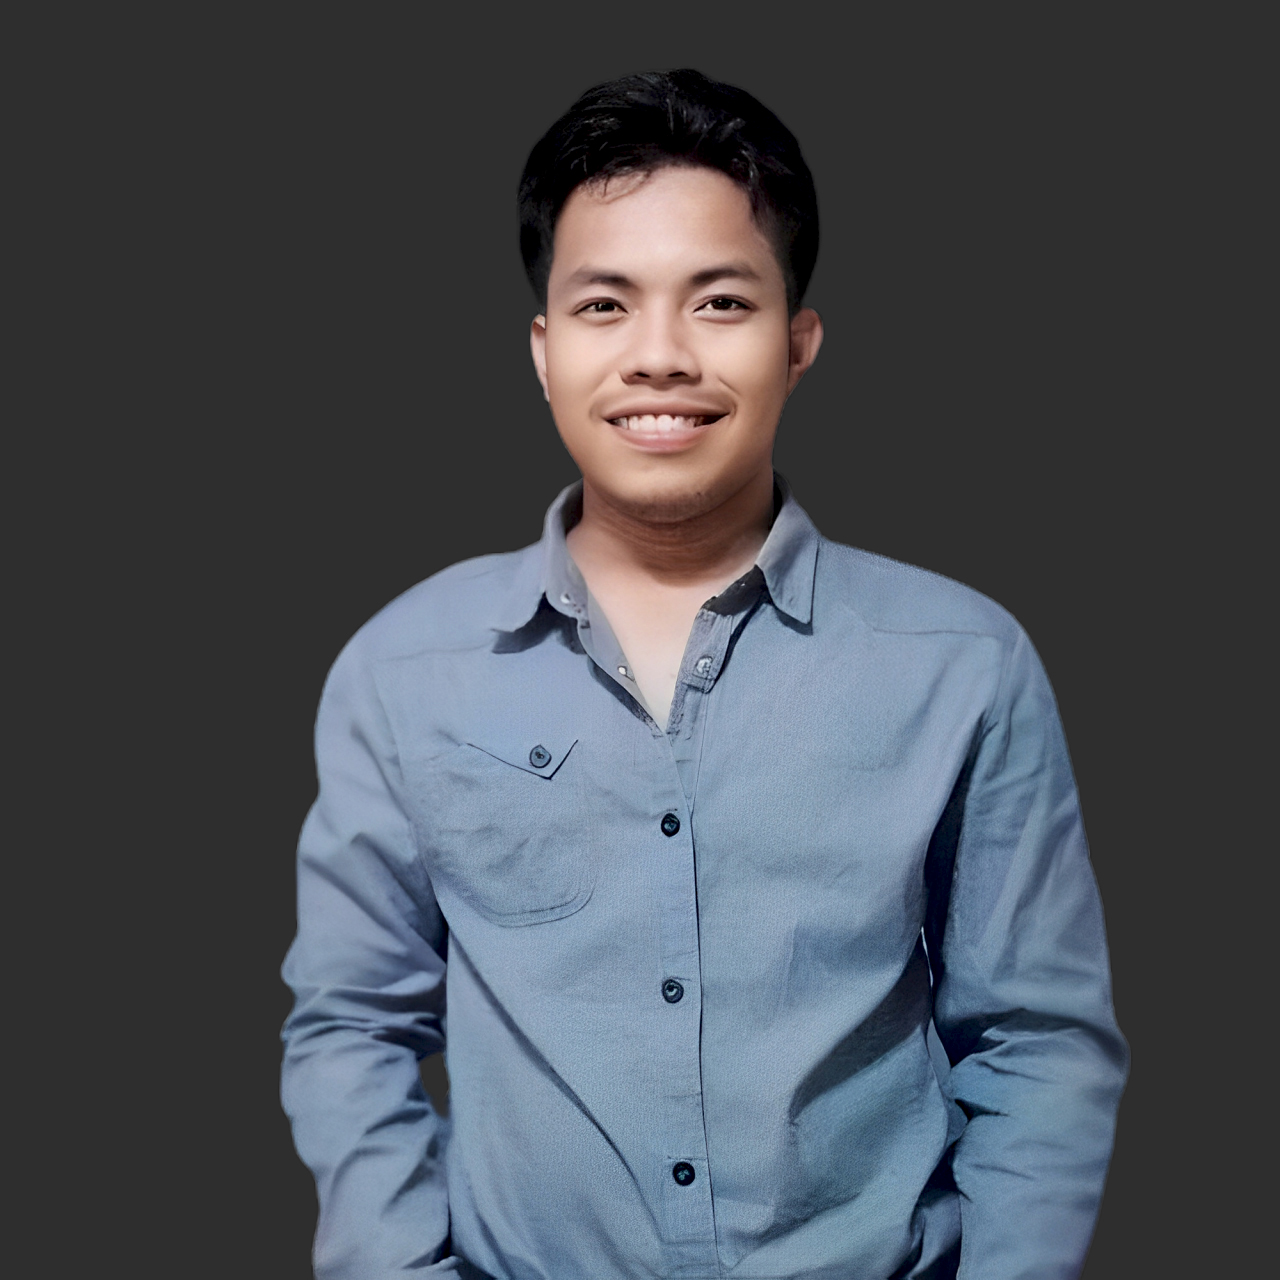
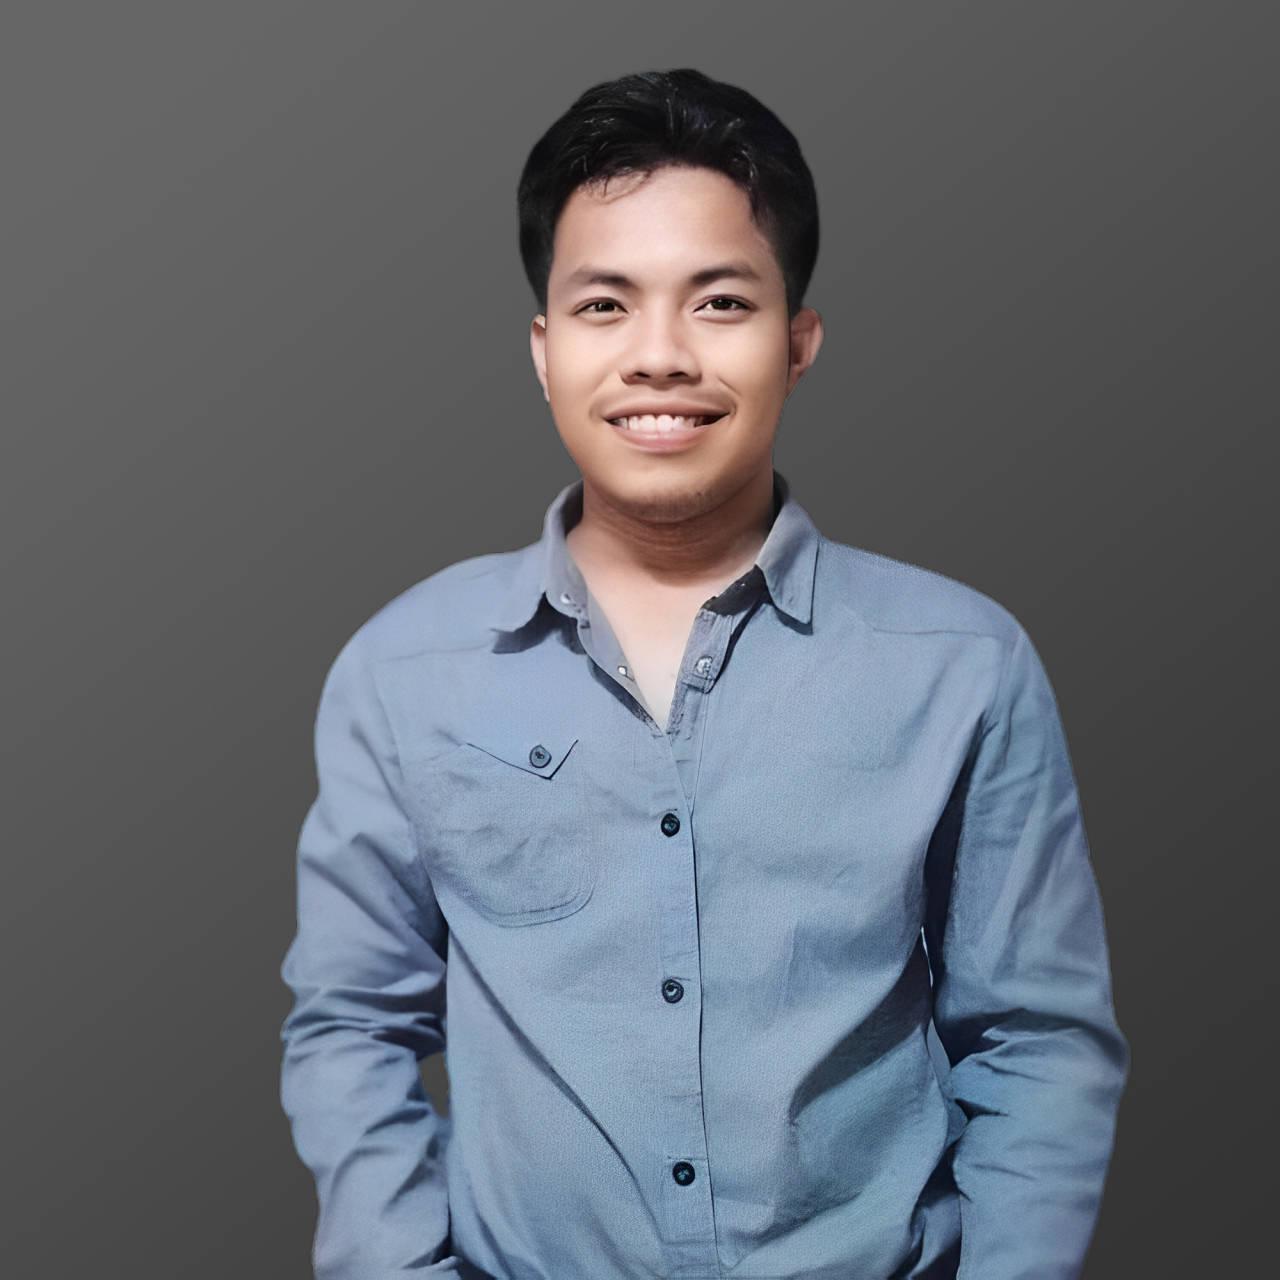
.

diff --git a/index.html b/index.html
@@ -64,7 +64,7 @@
 	<div class="landing-bg">
 
 		<!-- headers-->
-		<header class="my-bg-secondary-color flex justify-end items-center m-0 px-5 py-3 md:block fixed top-0 w-full z-50"
+		<header class="flex justify-end items-center m-0 px-5 py-3 md:block fixed top-0 w-full z-50"
 			id="header">
 			<div class="flex items-center">
 				<img src="./assets/logo.svg"
@@ -77,28 +77,28 @@
 					<li class="link-item	">
 						<a href="#home">
 
-							<span class="text-sm uppercase  text-white hover:my-text-secondary-color font-bold">Home</span></a>
+							<span class="text-sm uppercase  text-white hover:my-text-secondary-color ">Home</span></a>
 					</li>
 					<li class="link-item">
 						<a href="#about">
-							<span class="text-sm uppercase  text-white hover:my-text-secondary-color font-bold">About</span></a>
+							<span class="text-sm uppercase  text-white hover:my-text-secondary-color ">About</span></a>
 					</li>
 					<li class="link-item">
 						<a href="#skills">
-							<span class="text-sm uppercase  text-white hover:my-text-secondary-color font-bold">Skills</span> </a>
+							<span class="text-sm uppercase  text-white hover:my-text-secondary-color ">Skills</span> </a>
 					</li>
 					<li class="link-item">
 						<a href="#projects">
-							<span class="text-sm uppercase  text-white hover:my-text-secondary-color  font-bold">Projects</span></a>
+							<span class="text-sm uppercase  text-white hover:my-text-secondary-color  ">Projects</span></a>
 					</li>
 					<li class="link-item">
 						<a href="#designs">
-							<span class="text-sm uppercase text-white hover:my-text-secondary-color font-bold">Designs</span>
+							<span class="text-sm uppercase text-white hover:my-text-secondary-color ">Designs</span>
 						</a>
 					</li>
 					<li class="link-item">
 						<a href="#videos">
-							<span class="text-sm uppercase  text-white hover:my-text-secondary-color font-bold">Videos</span></a>
+							<span class="text-sm uppercase  text-white hover:my-text-secondary-color ">Videos</span></a>
 					</li>
 				</ul>
 				<ul class="ms-auto">
@@ -209,7 +209,8 @@
 					unimagined.
 				</p>
 
-				<p class="mt-2 mx-4 max-w-xl max-h-lg text-justify text-base md:text-xl">
+				<p id="quote-welcome-description"
+					class="mt-2 mx-4 max-w-xl max-h-lg text-justify text-base md:text-xl">
 					Developers can unlock their potential for innovation in software development by becoming skilled creators,
 					using their creativity, imagination, and technical expertise to come up with extraordinary ideas and explore
 					new technologies. This emphasizes the importance of creativity and innovation in the field, inspiring
@@ -238,33 +239,35 @@
 								<div class="container mx-auto">
 									<div class="flex flex-wrap">
 
-										<div class="w-full md:w-2/3 px-4 md:px-8 py-4 md:p-5">
-											<p class="text-justify py-1 about-dis text-2xl md:text-xl">
+										<div class="w-full md:w-1/3">
+											<div class="flex justify-center items-center">
+												<img src="./assets/profile.jpg"
+													alt="Mark Wayne Menorca"
+													class="w-40 h-40 md:h-80 md:w-80 border-1  rounded-full">
+											</div>
+										</div>
+
+										<div class="w-full md:w-1/2 px-4 md:px-8 py-4 md:p-5">
+											<p class="text-justify py-1 about-dis text-xs md:text-base">
 												Hi Everyone!
 												I am
-												<strong class="font-bold text-2xl md:text-xl">Mark Wayne Menorca</strong>, a dedicated software
+												<strong class="font-bold text-xs md:text-base">Mark Wayne Menorca</strong>, a dedicated software
 												developer with a strong passion
 												for programming
 												and a keen interest in using technology to solve real-world problems.
 											</p>
-											<p class="text-justify py-1  text-2xl md:text-xl">
+											<p class="text-justify py-1  text-xs md:text-base">
 												I consider myself a
 												highly motivated and hardworking individual who is always eager to learn new technologies and
 												programming languages.
 											</p>
-											<p class="text-justify py-1 text-2xl md:text-xl">
+											<p class="text-justify py-1 text-xs md:text-base">
 												I have a proactive learning mindset, constantly seeking opportunities
 												to enhance my skills and stay updated with the latest industry trends. My strong work ethic
 												and commitment make me a valuable candidate for any software development role.
 											</p>
 										</div>
-										<div class="w-full md:w-1/3">
-											<div class="flex  justify-center md:justify-start">
-												<img src="./assets/profile.jpg"
-													alt="Mark Wayne Menorca"
-													class="w-30 h-30 md:h-auto border-1  rounded-full">
-											</div>
-										</div>
+
 									</div>
 								</div>
 							</div>
@@ -1041,7 +1044,7 @@
 
 		</div>
 	</main>
-	<footer class="my-bg-secondary-color text-center p-5 shadow-t-md">
+	<footer class="text-center p-5 shadow-t-md">
 		<div class="grid 	grid-cols-1 md:grid-cols-2 gap-2">
 			<div class="py-1">
 				<ul>

diff --git a/style/style.css b/style/style.css
@@ -4,9 +4,9 @@
 
 :root {
 	--primary-color: #010101;
-	--secondary-color: #141414;
-	--tertiary-color: #0e0e0e;
-	--quaternary-color: #5c5c5c;
+	--secondary-color: #222222;
+	--tertiary-color: #1d1d1d;
+	--quaternary-color: #048381;
 	/* --font: 'Roboto', sans-serif; */
 	--font: "Roboto Slab", serif;
 	--font-special: "Roboto Slab", serif
@@ -17,10 +17,6 @@
 	font-weight: 300;
 	font-family: var(--font);
 	letter-spacing: 1px;
-}
-
-footer {
-	border-top: 1pt solid #212121;
 }
 
 
@@ -47,12 +43,18 @@ footer {
 	filter: grayscale(100%);
 }
 
+#app-title,
+#app-title-mobile {
+	filter: box-shadow(2px 2px 2px #000000);
+}
+
 #app-title-mobile {
 	font-weight: 900;
 	font-size: 1.5em;
 	font-family: 'Rutina Grace', sans-serif;
 	/* color: var(--quaternary-color) !important; */
 }
+
 
 #app-title {
 	font-size: 1.6em;
@@ -74,7 +76,7 @@ footer {
 
 .card {
 	border-radius: 12px;
-	border: 1pt solid #1e1e1e;
+	border: 1px solid var(--secondary-color);
 	background-color: var(--secondary-color);
 	padding: 15px;
 }
@@ -165,14 +167,32 @@ a {
 
 
 #home {
-	background-image: url("https://wallpapercave.com/wp/wp5308033.png");
+	/* background-image: url("https://wallpapercave.com/wp/wp5308033.png"); */
 	background-size: cover;
 	background-position: center;
 }
 
+#header,
+#header-mobile,
+footer {
+	background-color: var(--quaternary-color);
+}
+
+footer {
+	border-top: none;
+}
+
+
+
 #quote-welcome-message {
 	font-weight: 900;
 	font-family: 'Rutina Grace', sans-serif;
+	color: var(--quaternary-color) !important;
+}
+
+#quote-welcome-message,
+#quote-welcome-description {
+	filter: drop-shadow(2px 2px 2px #1c1c1c);
 }
 
 @media (max-width: 767px) {

diff --git a/style/tailwind.css b/style/tailwind.css
@@ -1076,6 +1076,10 @@ video {
   width: 100%;
 }
 
+.w-80 {
+  width: 20rem;
+}
+
 .max-w-full {
   max-width: 100%;
 }
@@ -1987,12 +1991,52 @@ video {
     height: auto;
   }
 
+  .md\:h-20 {
+    height: 5rem;
+  }
+
+  .md\:h-40 {
+    height: 10rem;
+  }
+
+  .md\:h-80 {
+    height: 20rem;
+  }
+
   .md\:w-1\/3 {
     width: 33.333333%;
   }
 
   .md\:w-2\/3 {
     width: 66.666667%;
+  }
+
+  .md\:w-auto {
+    width: auto;
+  }
+
+  .md\:w-1\/4 {
+    width: 25%;
+  }
+
+  .md\:w-2\/4 {
+    width: 50%;
+  }
+
+  .md\:w-1\/2 {
+    width: 50%;
+  }
+
+  .md\:w-40 {
+    width: 10rem;
+  }
+
+  .md\:w-0 {
+    width: 0px;
+  }
+
+  .md\:w-80 {
+    width: 20rem;
   }
 
   .md\:grid-cols-1 {

diff --git a/javascript/script.js b/javascript/script.js
@@ -107,7 +107,8 @@ function insertDesign(
     "overflow-hidden",
     "shadow-md",
     "flex",
-    "flex-col"
+    "flex-col",
+    "mx-4"
   );
 
   const largerImageLink = document.createElement("a");
@@ -184,7 +185,8 @@ function insertVideo(containerId, videoLink, title, description) {
     "card",
     "rounded-lg",
     "overflow-hidden",
-    "shadow-md"
+    "shadow-md",
+    "mx-4"
   );
 
   const videoEmbed = document.createElement("iframe");

diff --git a/javascript/videos.js b/javascript/videos.js
@@ -5,12 +5,6 @@ const videoList = [
     videoTitle: "Video Title 1",
     videoDescription: "Short description of Video 1.",
   },
-  {
-    containerId: "videos-container",
-    videoLink: "https://www.youtube.com/embed/yourvideoid2",
-    videoTitle: "Video Title 2",
-    videoDescription: "Short description of Video 2.",
-  },
   // Add more video objects as needed
 ];
 
